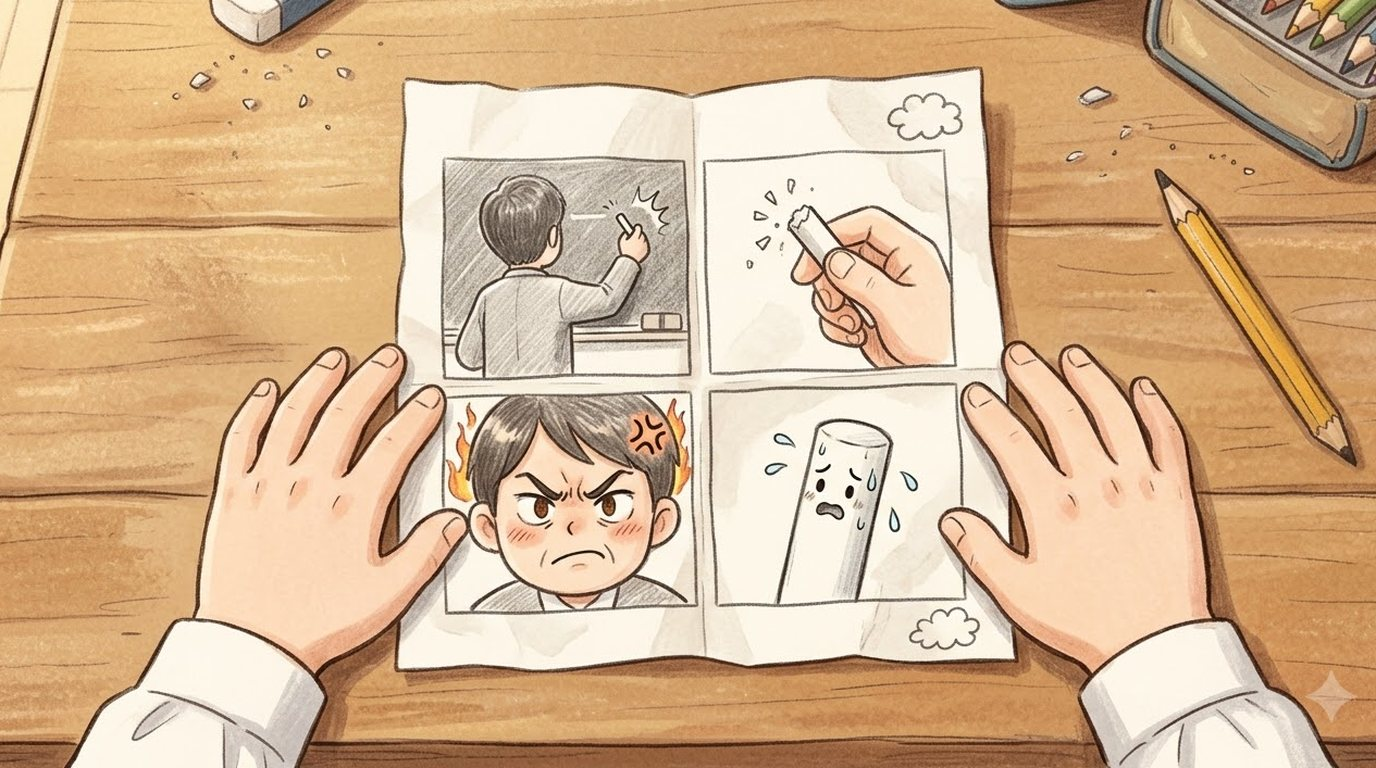
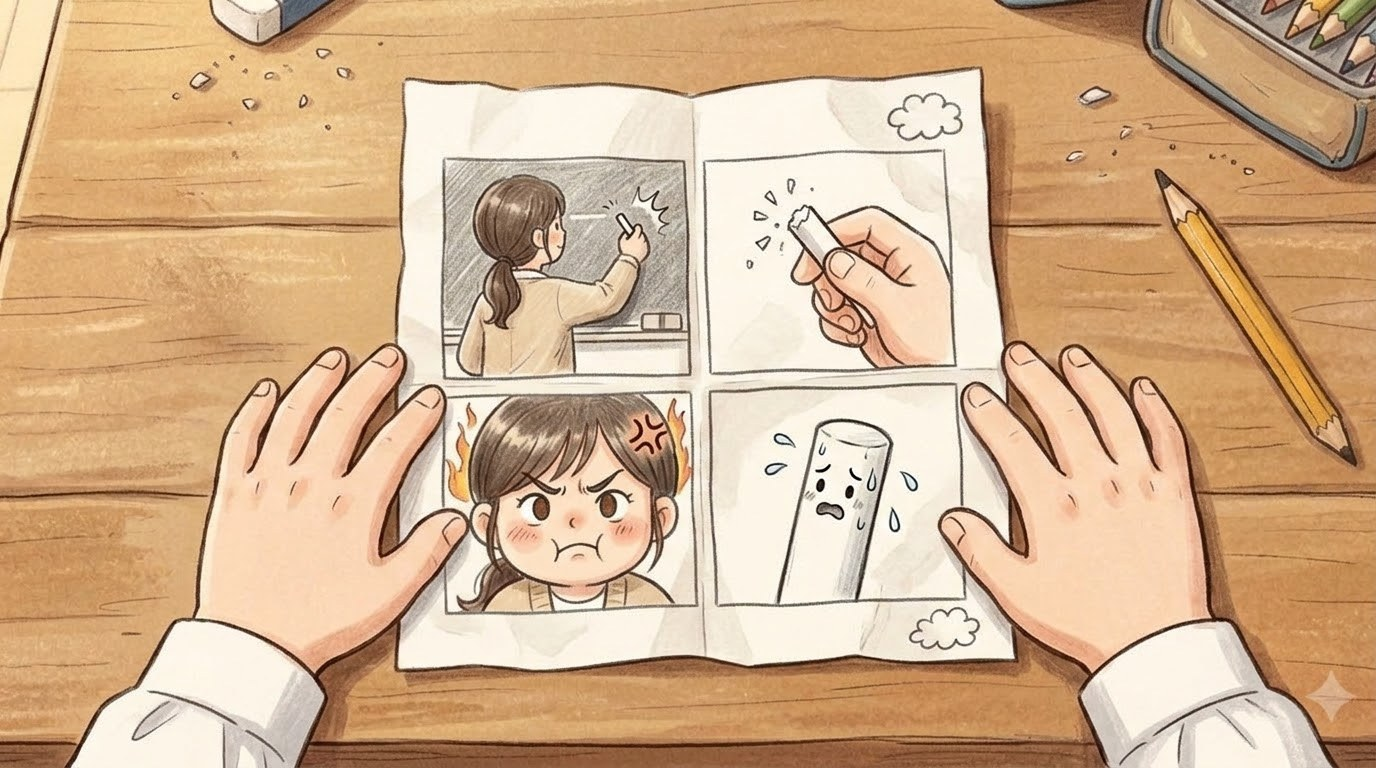
redraw: haneul_04a comic teacher is the homeroom teacher (low brown ponytail, beige cardigan) (BUILD 1106220846)

diff --git a/index.html b/index.html
@@ -119,14 +119,14 @@ body,button{word-break:keep-all;overflow-wrap:break-word}
 <div id="fader"></div>
 <script>
 // same address, newest version: if the page this phone has kept is older than the one online, fetch the new one and reopen
-const BUILD='1106214801';
+const BUILD='1106220846';
 try{fetch(location.pathname,{cache:'no-store'}).then(r=>r.text()).then(t=>{const m=t.match(/const BUILD='(\d+)'/);if(m&&m[1]!==BUILD&&sessionStorage.getItem('upd')!==m[1]){sessionStorage.setItem('upd',m[1]);fetch(location.pathname,{cache:'reload'}).then(()=>location.reload())}}).catch(()=>{})}catch(e){}
 </script>
-<script src="i18n.js?v=1106214801"></script>
-<script src="i18n_prologue_v2.js?v=1106214801"></script>
-<script src="day2/i18n_engine.js?v=1106214801"></script>
-<script src="day2/data.js?v=1106214801"></script>
-<script src="day3/data.js?v=1106214801"></script>
+<script src="i18n.js?v=1106220846"></script>
+<script src="i18n_prologue_v2.js?v=1106220846"></script>
+<script src="day2/i18n_engine.js?v=1106220846"></script>
+<script src="day2/data.js?v=1106220846"></script>
+<script src="day3/data.js?v=1106220846"></script>
 <script>
 // ---------- data ----------
 const MW=1672,MH=941,KID=180;
@@ -547,34 +547,34 @@ function pickHero(){const m=document.getElementById('modal'),c=document.getEleme
  c.innerHTML=`<h2>${tr('전학생 반장되기')}</h2><p>${tr('한국말이 아직 서툰 전학생,<br>반장 선거에 나가다.')}</p><p style="margin-top:14px">${tr('누구로 할까요?')}</p>${(()=>{const s=loadSave();return s&&s.day>=2&&s.mode===UI+'-'+LANG?`<p><button class="big" id="cont">${tr('{n}일차부터 이어 하기').replace('{n}',s.day)}</button></p>`:''})()}<div class="pick heroes"><button data-h="hero_f"><img src="faces/hero_f_smile.jpg" alt="여자 주인공">${heroName(1)}</button><button data-h="hero_m"><img src="faces/hero_m_smile.jpg" alt="남자 주인공">${heroName(0)}</button></div>`;
  m.classList.add('on');{const cb=document.getElementById('cont');if(cb)cb.onclick=()=>{const s=loadSave();HERO=s.hero;Object.assign(HEART,s.heart||{});(s.found||[]).forEach(k=>FOUND.add(k));HEART_D1={...HEART};chime();(typeof contGame==='function'?contGame(s):startDay(Math.min(s.day,Object.keys(window.D3||{}).length?3:2)))}}c.querySelectorAll('.pick button').forEach(b=>b.onclick=()=>{HERO=b.dataset.h;m.classList.remove('on');chime();bgm('day');load('home_am');say([['nar','','이사 온 다음 날 아침. 아직 풀지 못한 상자들이 쌓여 있다.'],['think','sad','(오늘부터 새 학교야. 여기 말도 아직 서툰데…….)'],['think','smile','({m}한테 인사하고 학교 가야지.)']],morning)})}
 </script>
-<script src="day2/engine.js?v=1106214801"></script>
-<script src="day2/ep_minho.js?v=1106214801"></script>
-<script src="day2/meet.js?v=1106214801"></script>
-<script src="day2/ep_sua.js?v=1106214801"></script>
-<script src="day2/ep_hangyeol.js?v=1106214801"></script>
-<script src="day2/ep_siwoo.js?v=1106214801"></script>
-<script src="day2/ep_haram.js?v=1106214801"></script>
-<script src="day2/ep_jiho.js?v=1106214801"></script>
-<script src="day2/ep_hyeeun.js?v=1106214801"></script>
-<script src="day2/ep_haneul.js?v=1106214801"></script>
-<script src="day2/ep_junho.js?v=1106214801"></script>
-<script src="day2/ep_yuna.js?v=1106214801"></script>
-<script src="day2/ep_yena.js?v=1106214801"></script>
-<script src="day2/ep_haeun.js?v=1106214801"></script>
-<script src="day2/ep_youngmin.js?v=1106214801"></script>
-<script src="day2/ep_seah.js?v=1106214801"></script>
-<script src="day2/ep_jihoon.js?v=1106214801"></script>
-<script src="words_ja_ru.js?v=1106214801"></script>
-<script src="day2/mybag.js?v=1106214801"></script>
-<script src="day2/wordpics.js?v=1106214801"></script>
-<script src="day2/spots.js?v=1106214801"></script>
-<script src="day2/textfit.js?v=1106214801"></script>
-<script src="day2/tester.js?v=1106214801"></script>
-<script src="day2/ux.js?v=1106214801"></script>
-<script src="day2/tapword.js?v=1106214801"></script>
-<script src="day2/review.js?v=1106214801"></script>
-<script src="day2/ep_ending.js?v=1106214801"></script>
-<script src="day2/ending.js?v=1106214801"></script>
+<script src="day2/engine.js?v=1106220846"></script>
+<script src="day2/ep_minho.js?v=1106220846"></script>
+<script src="day2/meet.js?v=1106220846"></script>
+<script src="day2/ep_sua.js?v=1106220846"></script>
+<script src="day2/ep_hangyeol.js?v=1106220846"></script>
+<script src="day2/ep_siwoo.js?v=1106220846"></script>
+<script src="day2/ep_haram.js?v=1106220846"></script>
+<script src="day2/ep_jiho.js?v=1106220846"></script>
+<script src="day2/ep_hyeeun.js?v=1106220846"></script>
+<script src="day2/ep_haneul.js?v=1106220846"></script>
+<script src="day2/ep_junho.js?v=1106220846"></script>
+<script src="day2/ep_yuna.js?v=1106220846"></script>
+<script src="day2/ep_yena.js?v=1106220846"></script>
+<script src="day2/ep_haeun.js?v=1106220846"></script>
+<script src="day2/ep_youngmin.js?v=1106220846"></script>
+<script src="day2/ep_seah.js?v=1106220846"></script>
+<script src="day2/ep_jihoon.js?v=1106220846"></script>
+<script src="words_ja_ru.js?v=1106220846"></script>
+<script src="day2/mybag.js?v=1106220846"></script>
+<script src="day2/wordpics.js?v=1106220846"></script>
+<script src="day2/spots.js?v=1106220846"></script>
+<script src="day2/textfit.js?v=1106220846"></script>
+<script src="day2/tester.js?v=1106220846"></script>
+<script src="day2/ux.js?v=1106220846"></script>
+<script src="day2/tapword.js?v=1106220846"></script>
+<script src="day2/review.js?v=1106220846"></script>
+<script src="day2/ep_ending.js?v=1106220846"></script>
+<script src="day2/ending.js?v=1106220846"></script>
 <script>
 // the goal shows big for a few seconds, then folds into a small pill (tap it to open it again)
 {const g=document.getElementById('goal');let t=null;const big=()=>{g.classList.remove('mini');clearTimeout(t);t=setTimeout(()=>g.classList.add('mini'),4000)};
